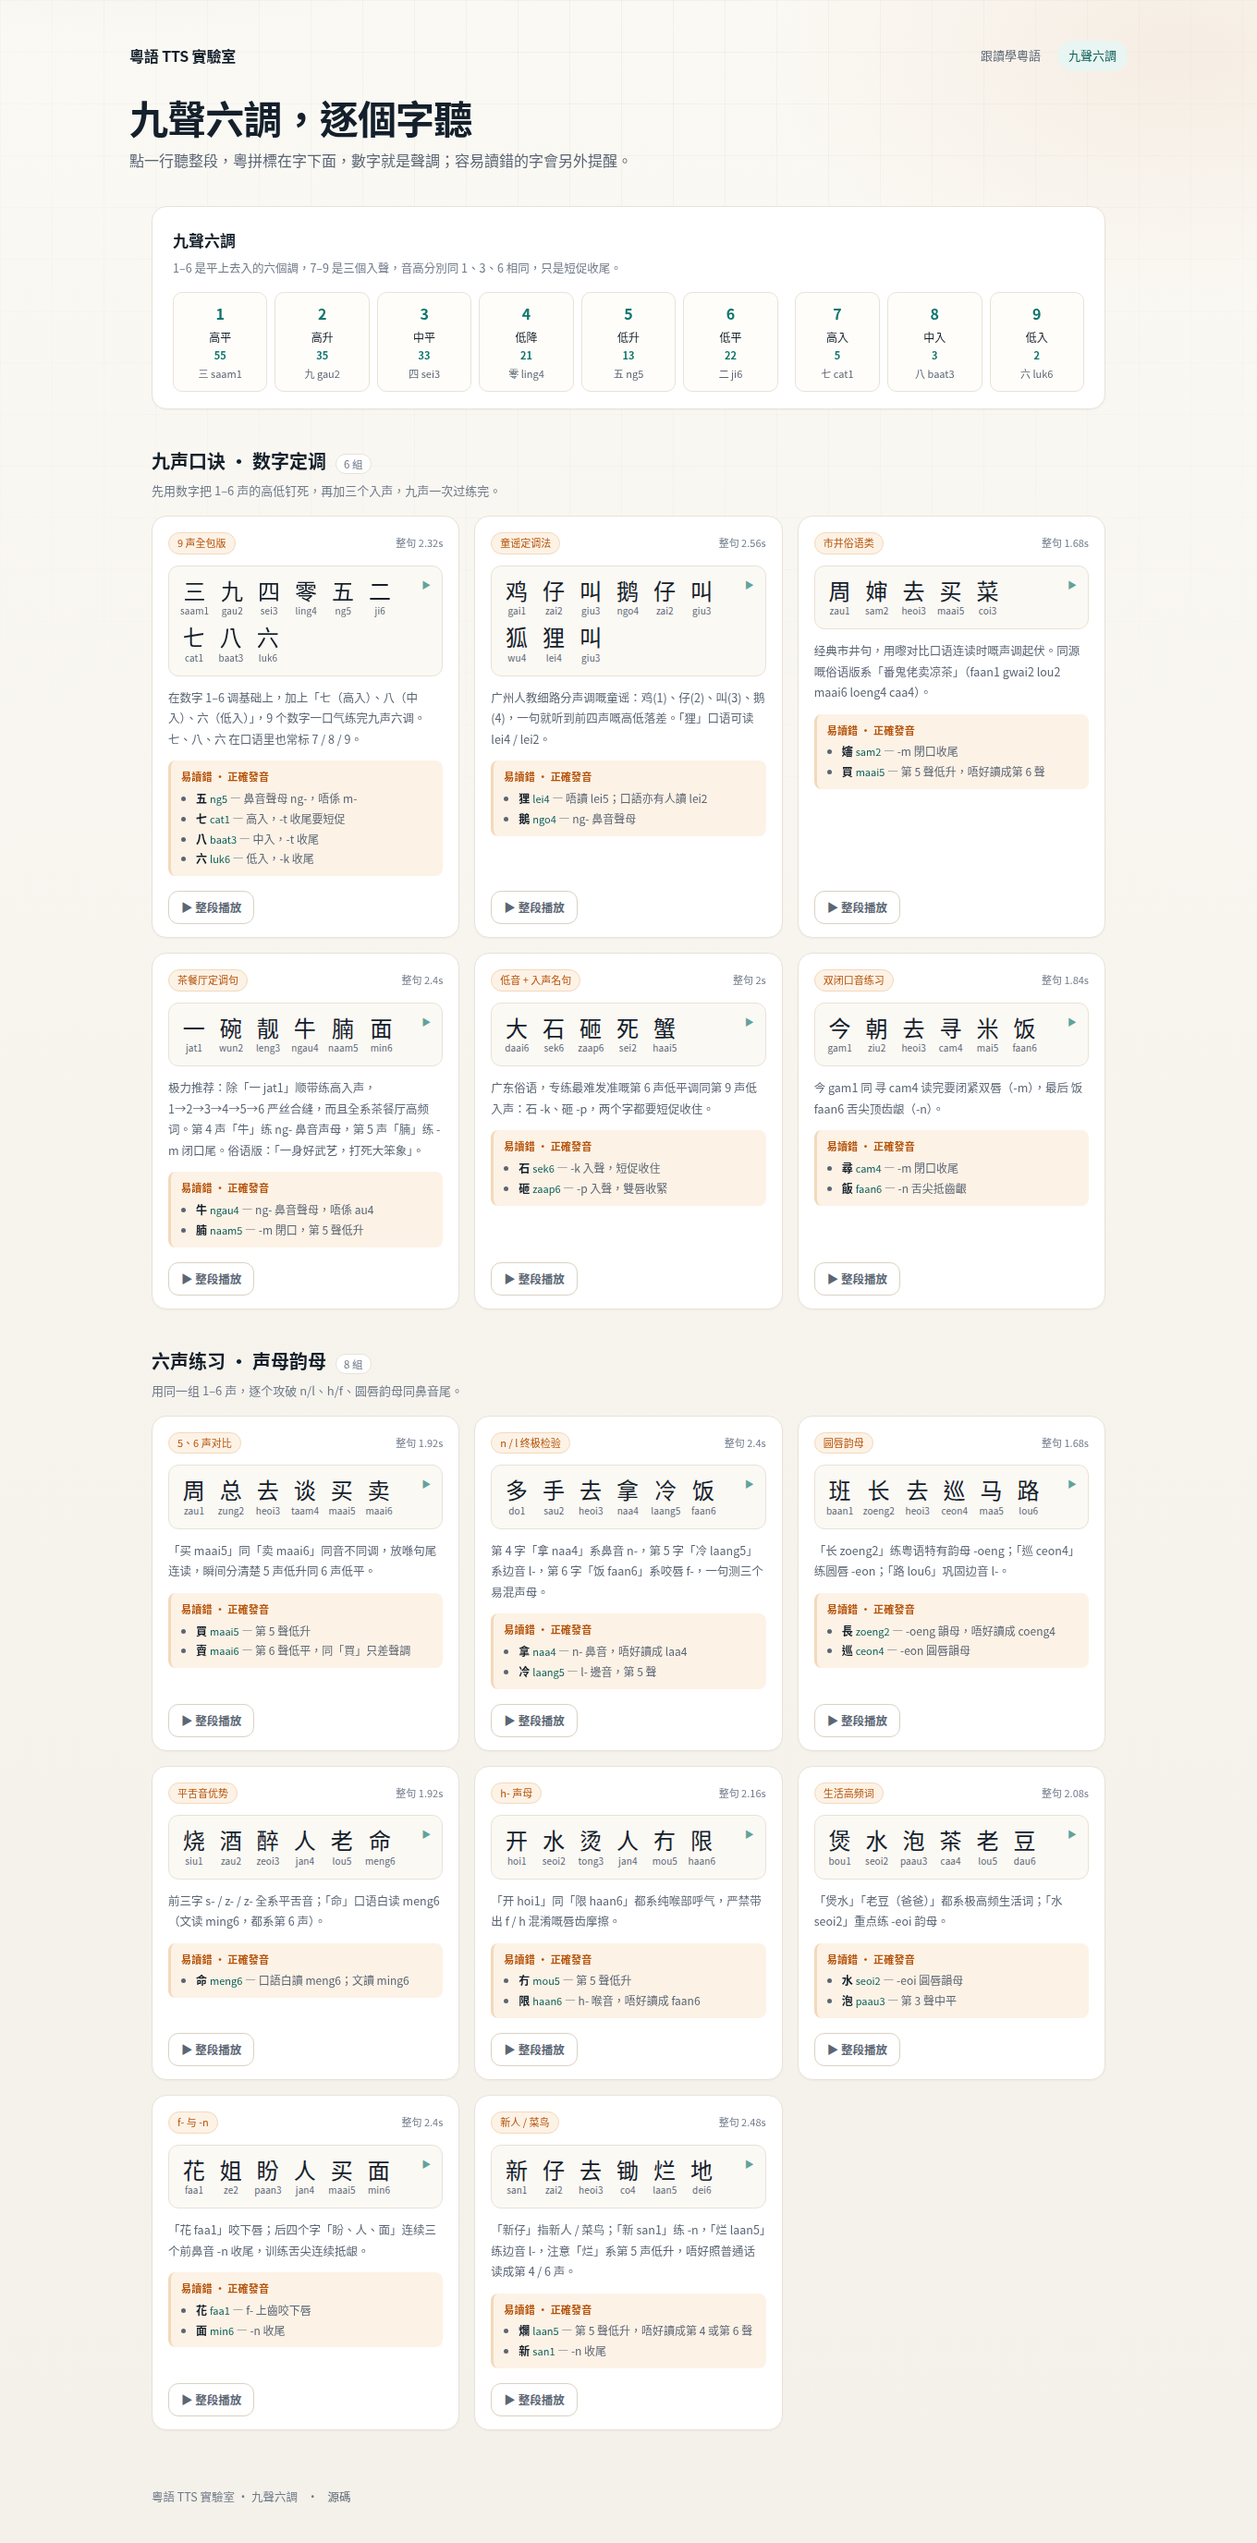
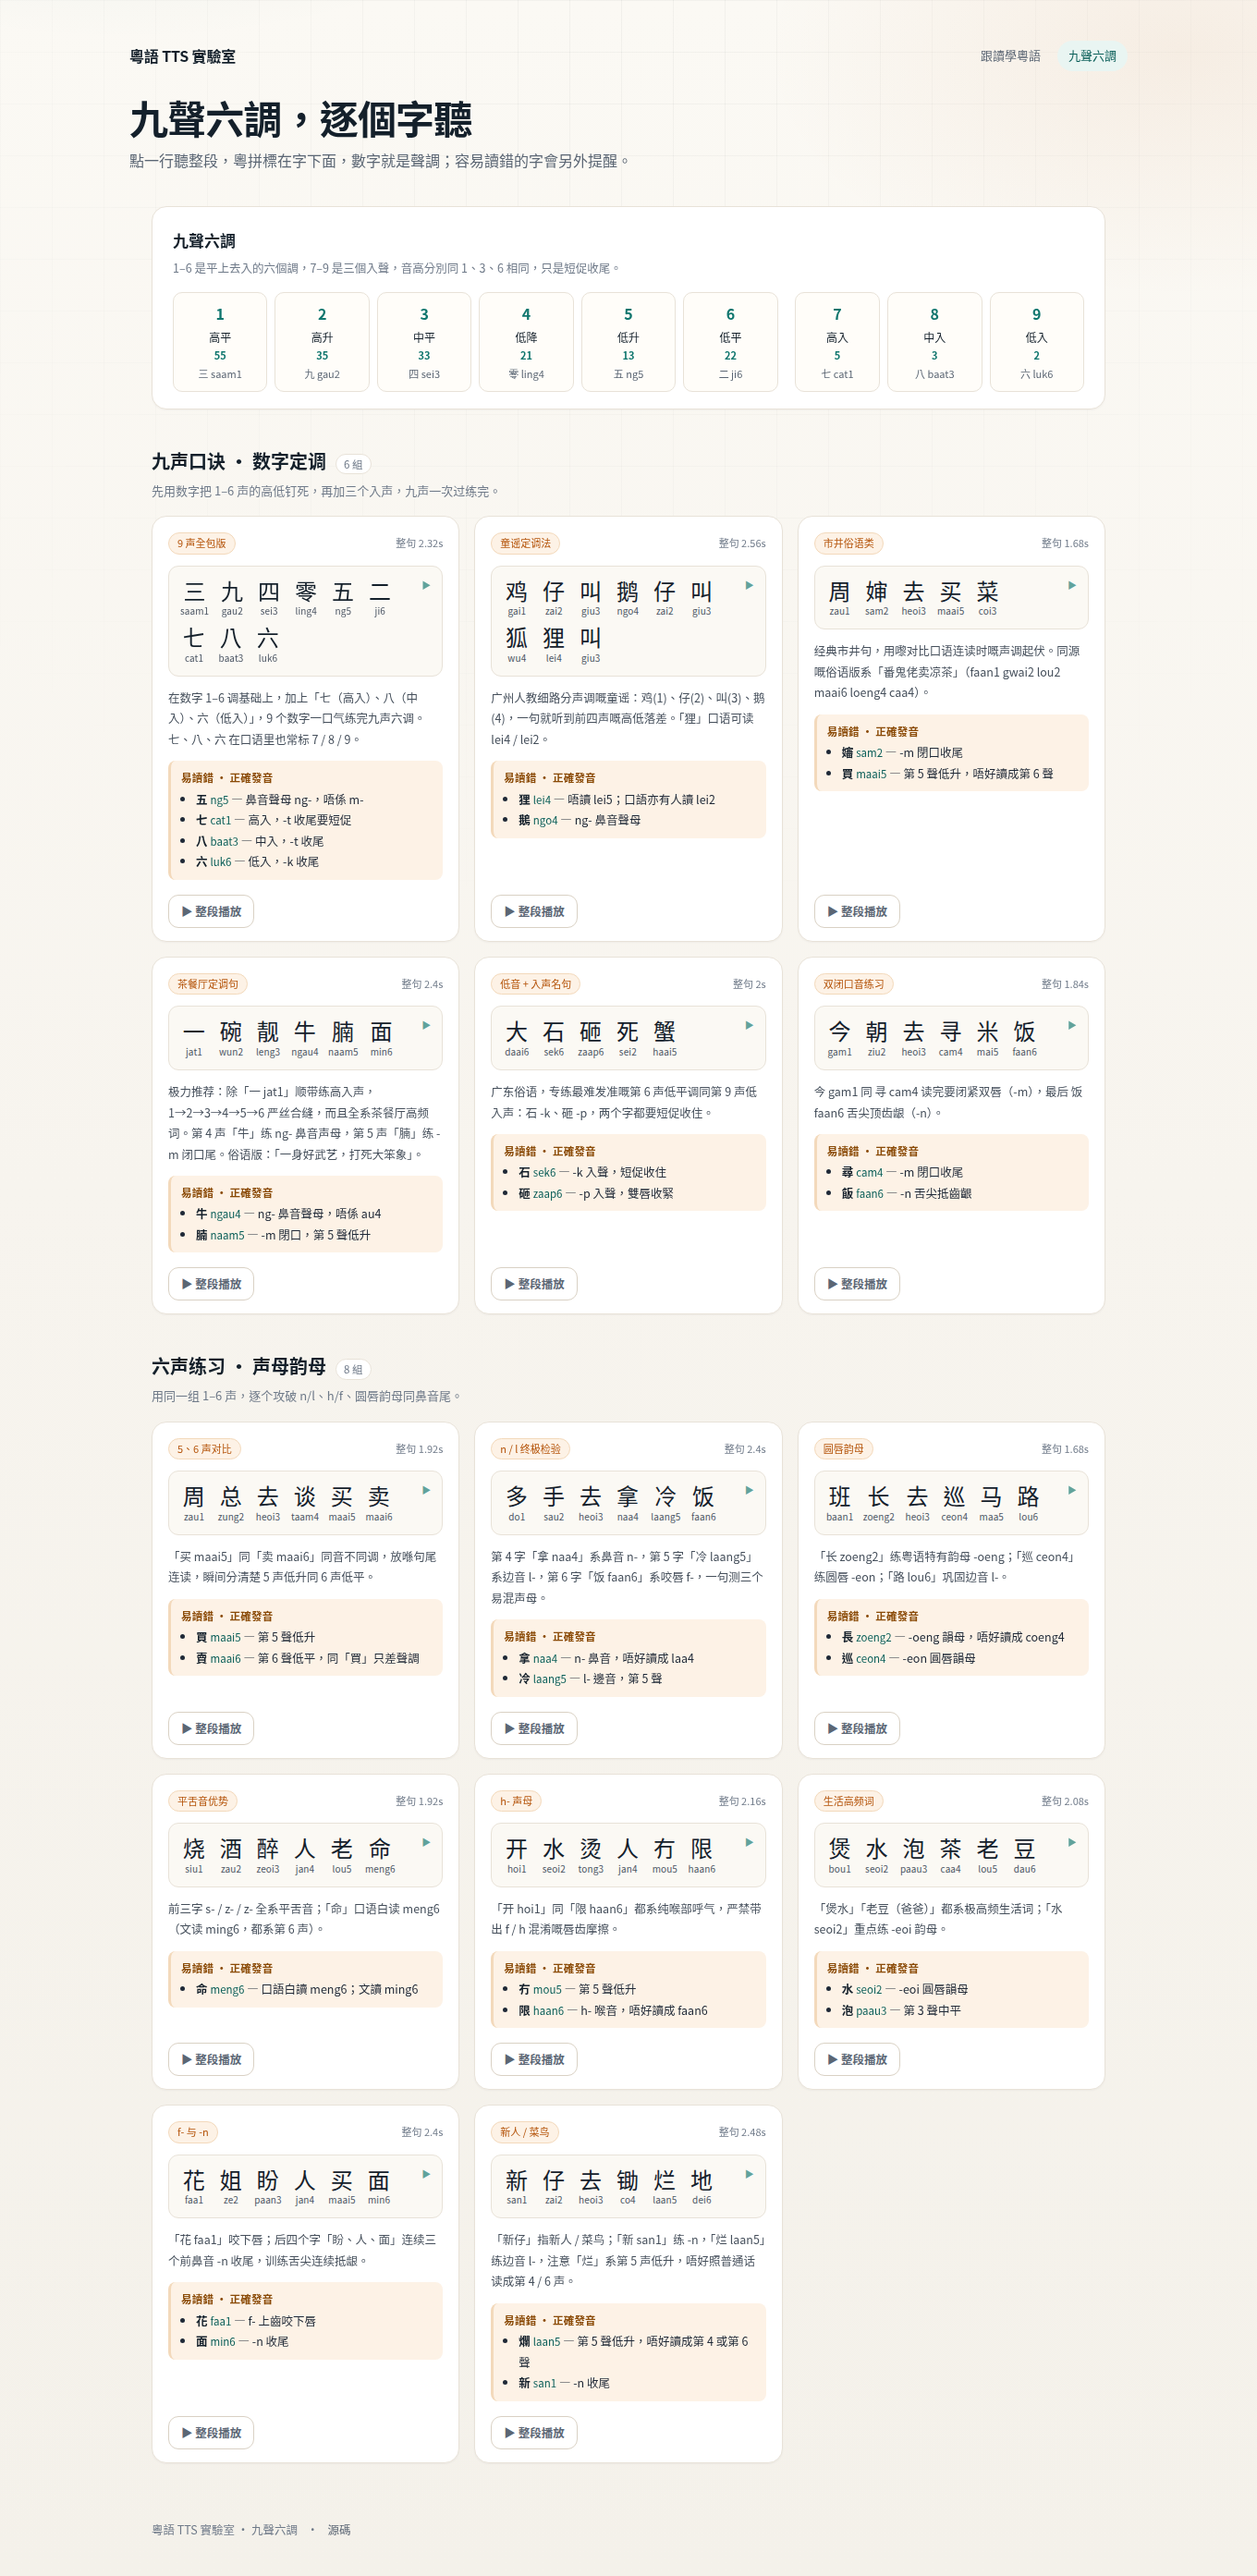
style(tones): 加深發音提示與說明文字
- 易讀錯條目改近黑色 #1f2937，標題改深棕
- 粵拼、句子說明同步加深一級

diff --git a/web/tones.css b/web/tones.css
@@ -166,7 +166,7 @@
 }
 
 .tone-line .ch { font-size: 24px; line-height: 1.15; color: var(--ink); letter-spacing: 0.02em; }
-.tone-line .jy { font-size: 10px; color: var(--muted); letter-spacing: 0.01em; }
+.tone-line .jy { font-size: 10px; color: #4b5563; letter-spacing: 0.01em; }
 .tone-line.playing .ch,
 .tone-line.playing .jy { color: var(--accent-strong); }
 
@@ -178,23 +178,23 @@
 }
 
 .tone-tips-head {
-  font-size: 11px;
-  font-weight: 600;
-  color: var(--warm);
+  font-size: 11.5px;
+  font-weight: 700;
+  color: #8a4a06;
   margin-bottom: 3px;
   letter-spacing: 0.02em;
 }
 
 .tone-tips ul { margin: 0; padding-left: 16px; }
-.tone-tips li { font-size: 12px; line-height: 1.8; color: var(--muted); }
+.tone-tips li { font-size: 12.5px; line-height: 1.8; color: var(--text); }
 .tone-tips b { color: var(--ink); font-weight: 600; }
-.tone-tips .jy { color: var(--accent-strong); font-size: 11px; margin-left: 3px; }
+.tone-tips .jy { color: var(--accent-strong); font-size: 11.5px; margin-left: 3px; }
 
 .tone-note {
   margin: 0;
   font-size: 12.5px;
   line-height: 1.8;
-  color: var(--muted);
+  color: #46505c;
 }
 
 .tone-actions {
